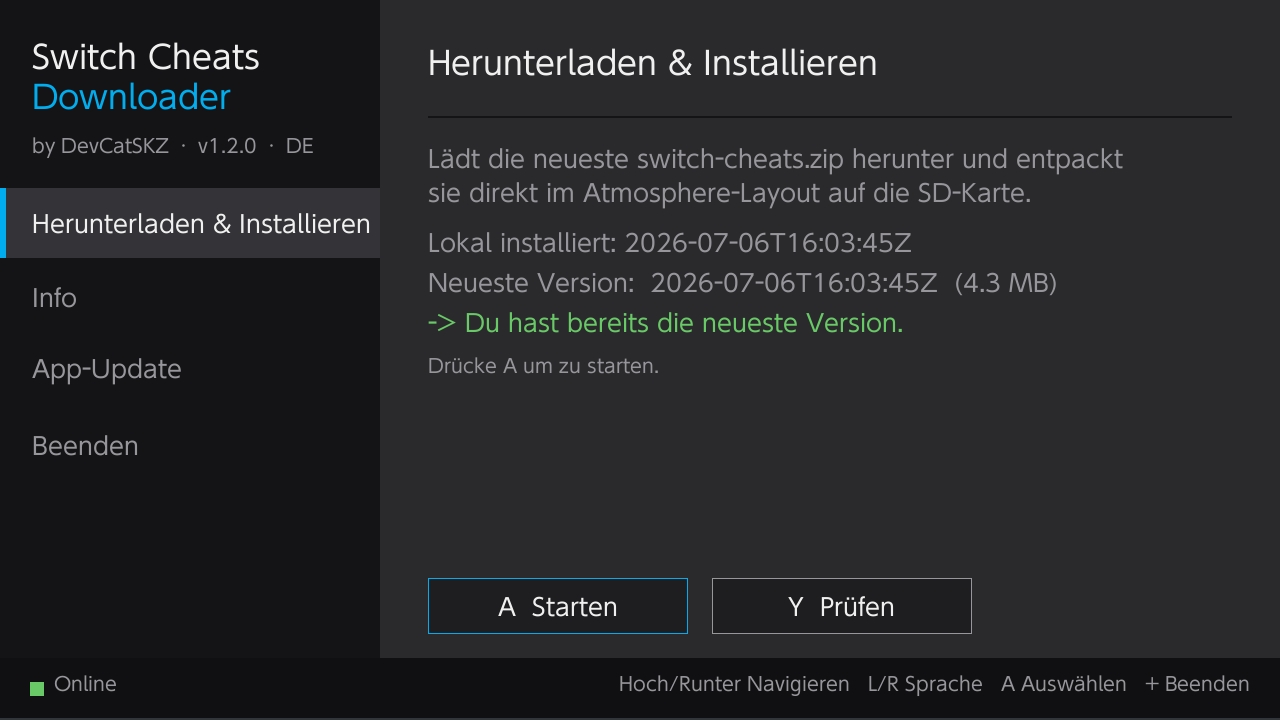
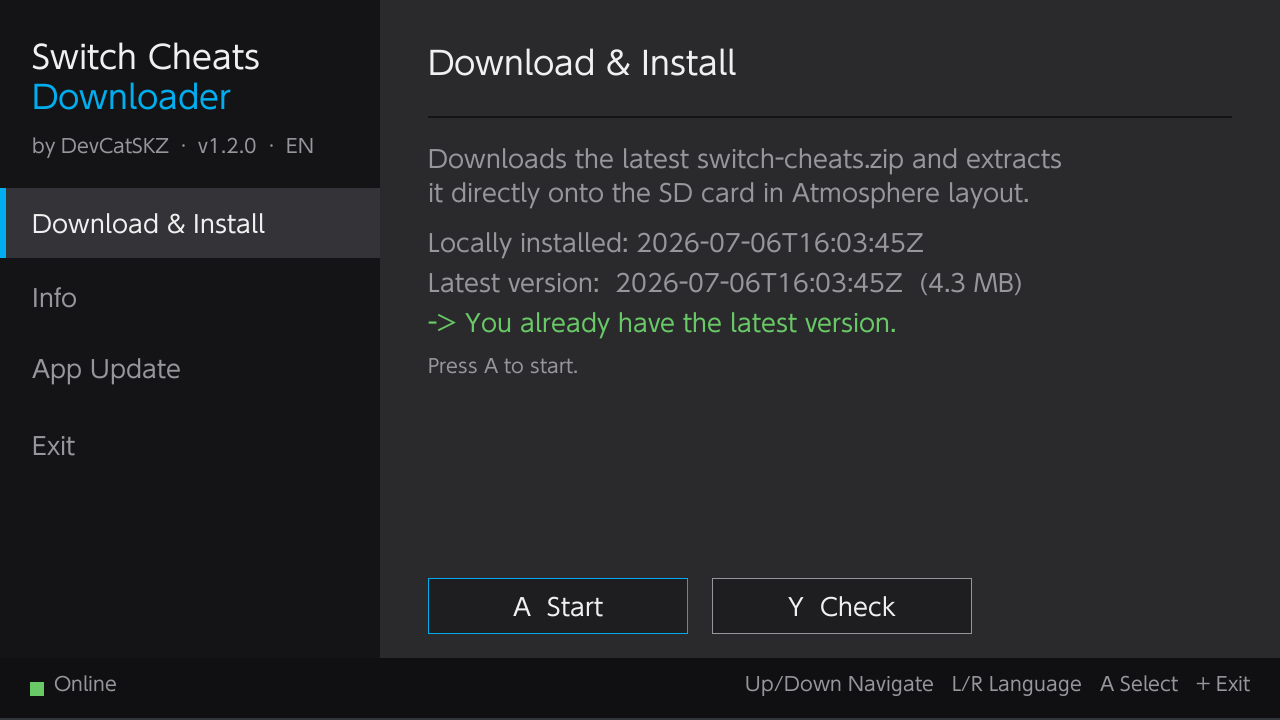
Use English Switch app screenshot; shorten Switch section heading

diff --git a/README.md b/README.md
@@ -36,7 +36,7 @@ Ready-made builds are on the **[Releases](../../releases/latest)** page:
 
 No Python required — the EXE is self-contained. (The built-in Chromium ships with the app; Firefox/Chrome for the optional browser download are fetched on demand when selected.)
 
-## 🎮 Switch app (homebrew counterpart)
+## 🎮 Switch app (homebrew)
 
 The desktop tool has a **counterpart that runs directly on the Switch**: a standalone homebrew app (`SwitchCheatsDownloader.nro`) that fetches the always-current [`data` release](https://github.com/DevCatSKZ/Switch-Cheats-Scraper-Downloader/releases/tag/data) **on the console** and extracts it straight into the Atmosphère layout on the SD card — no PC needed.
 